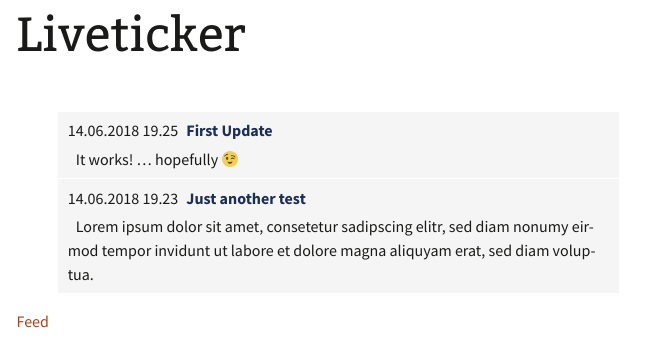
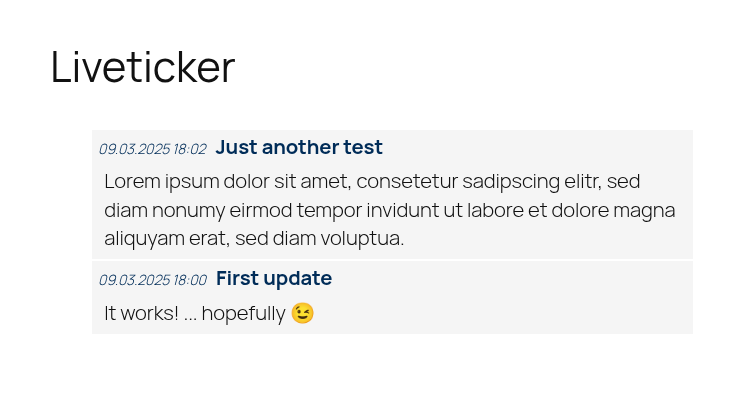
prepare release of v1.3.0 (#31)

diff --git a/stklcode-liveticker.php b/stklcode-liveticker.php
@@ -26,7 +26,7 @@
  * GNU General Public License for more details.
  *
  * You should have received a copy of the GNU General Public License
- * along with Liveticker (by stklcode). If not, see http://www.gnu.org/licenses/gpl-2.0.html.
+ * along with Liveticker (by stklcode). If not, see https://www.gnu.org/licenses/gpl-2.0.html.
  */
 
 // Exit if accessed directly.

diff --git a/includes/class-scliveticker.php b/includes/class-scliveticker.php
@@ -26,7 +26,7 @@ class SCLiveticker {
 	 *
 	 * @var string OPTIONS
 	 */
-	const VERSION = '1.2.3';
+	const VERSION = '1.3.0';
 
 	/**
 	 * Options tag.

diff --git a/README.md b/README.md
@@ -6,14 +6,14 @@
 
 # Liveticker (by stklcode)
 
-* Contributors:      Stefan Kalscheuer
+* Contributors:      stklcode
 * Tags:              liveticker, feed, rss
 * Requires at least: 5.0
-* Tested up to:      6.6
+* Tested up to:      6.7
 * Requires PHP:      7.2
-* Stable tag:        1.2.3
+* Stable tag:        1.3.0
 * License:           GPLv2 or later
-* License URI:       http://www.gnu.org/licenses/gpl-2.0.html
+* License URI:       https://www.gnu.org/licenses/gpl-2.0.html
 
 A simple ajaxified liveticker plugin for WordPress.
 
@@ -79,6 +79,11 @@ caching time of 12 hours obviously makes no sense.
 7. Example widget
 
 ## Changelog
+
+### 1.3.0 - 2025-03-10
+
+* Requires at least PHP 7.2 and WordPress 5.0
+* Sorting direction can now be changed for liveticker blocks
 
 ### 1.2.3 - 2025-02-04
 
